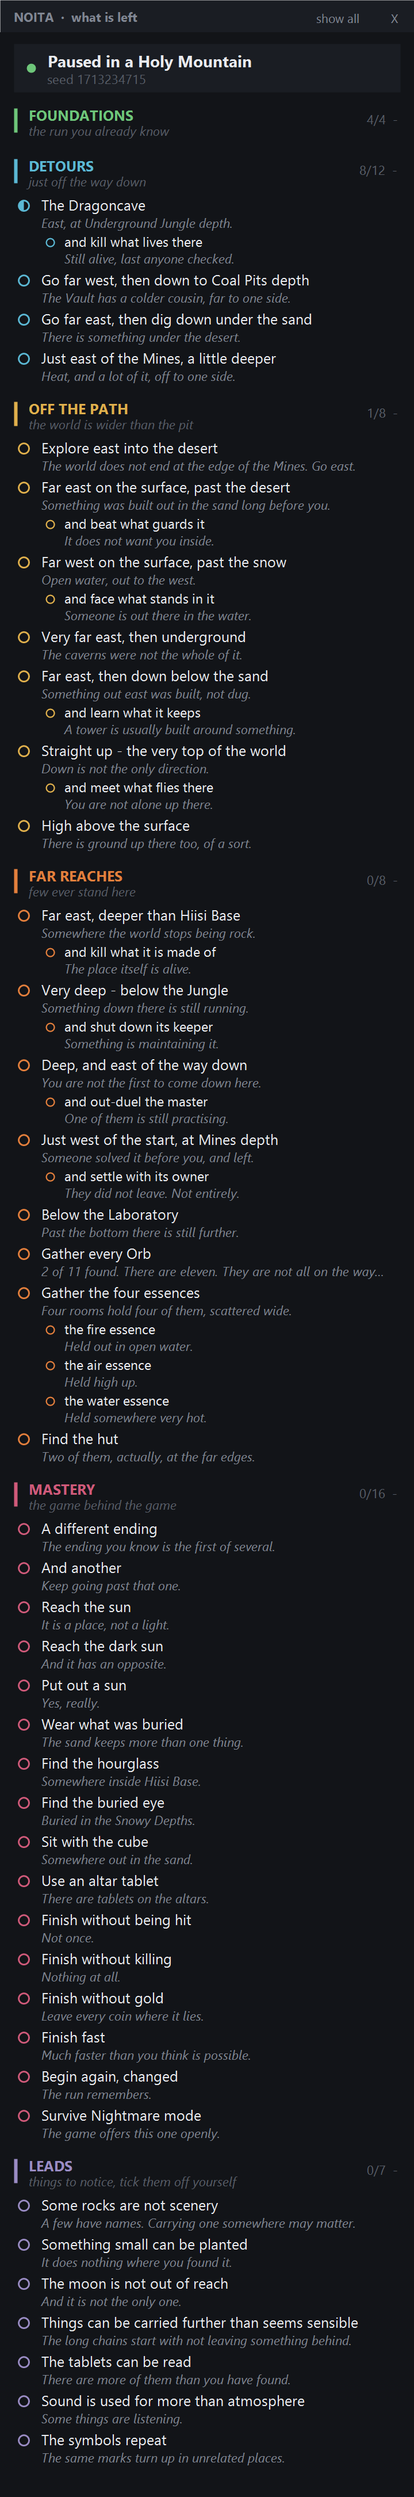
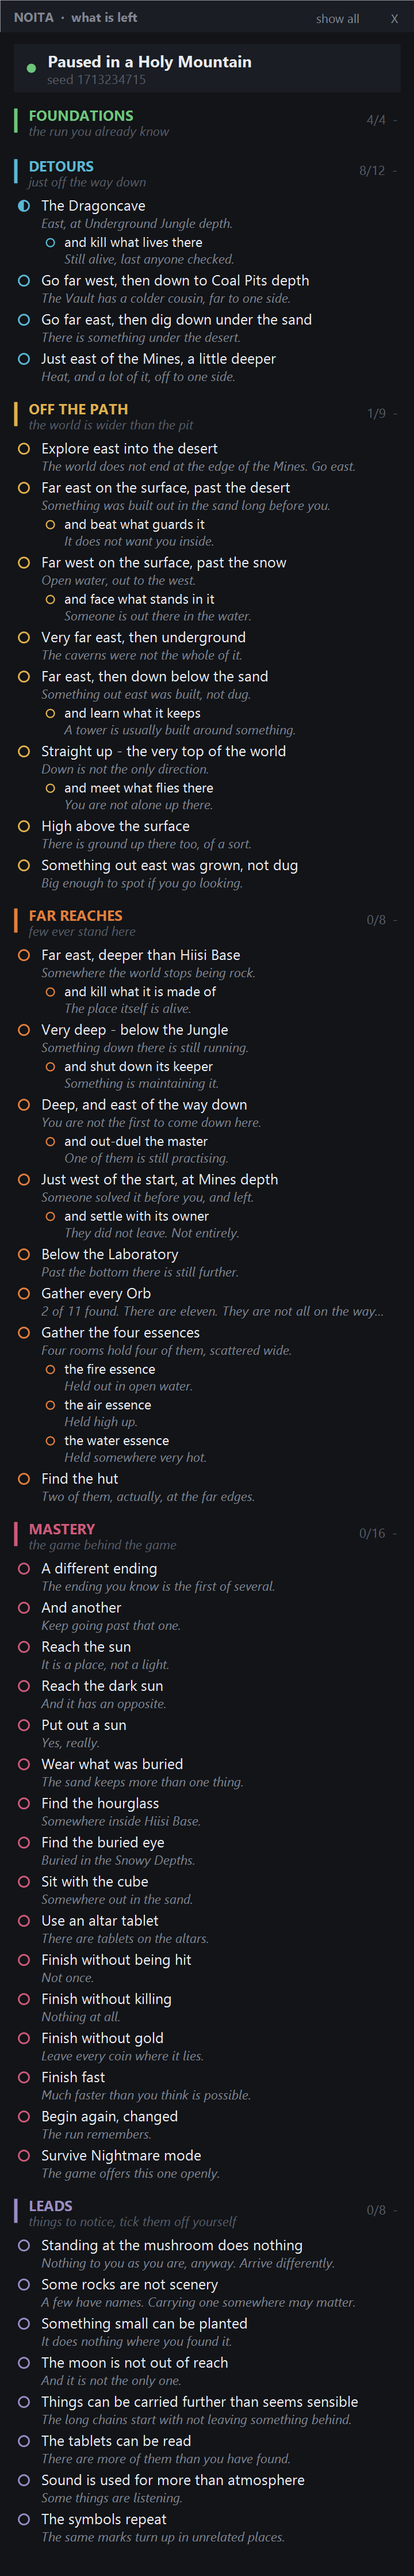
Add the stone mushroom
It is the funroom biome, one cell at chunk (11,6), world x 5632-6144,
y 3072-3584. Far east, at Snowy Depths depth.

Visiting it is detectable, so it is a normal place goal. Triggering it is
not: funroom_check.lua writes no flag at all. It fires only when the player
is inside radius 24 while carrying a particular state, then converts hidden
materials across the whole world. So the trigger is a manual lead.

diff --git a/src/Model.cs b/src/Model.cs
@@ -238,6 +238,7 @@ namespace NoitaOverlay {
       { "sandcave",     "the Sandcave" },           { "lavalake",     "the Lava Lake" },
       { "lava",         "the lava" },               { "gold",         "a vein of gold" },
       { "essenceroom",  "an Essence chamber" },     { "watercave",    "a water cave" },
+      { "funroom",      "the stone mushroom" },
       { "ghost_secret", "a hidden chamber" },       { "mestari_secret", "a hidden chamber" },
       { "solid_wall_hidden_cavern", "a hidden cavern" },
     };
@@ -309,6 +310,8 @@ namespace NoitaOverlay {
         .With(new Deed("and meet what flies there", "You are not alone up there.", "miniboss_sky")),
       new Goal(3, "t3_clouds",  "The Cloudscape",      "There is ground up there too, of a sort.",                   Source.Place, "clouds")
         .Veiled("High above the surface").At("High above the surface."),
+      new Goal(3, "t3_mushroom","The stone mushroom",  "Big enough to spot if you go looking.",                      Source.Place, "funroom")
+        .Veiled("Something out east was grown, not dug").At("Far east, at Snowy Depths depth."),
 
       // ---- 4. Far Reaches -------------------------------------------------
       new Goal(4, "t4_meat",   "The Meat Realm",  "Somewhere the world stops being rock.",  Source.Place, "meat")
@@ -354,6 +357,8 @@ namespace NoitaOverlay {
       // ---- 6. Leads -------------------------------------------------------
       // The game records none of these, so there is nothing to detect. They are
       // pointers at chains that start small and go a long way. Tick them yourself.
+      new Goal(6, "l_mushroom","Standing at the mushroom does nothing",
+        "Nothing to you as you are, anyway. Arrive differently.",       Source.Manual, "l_mushroom"),
       new Goal(6, "l_stones",  "Some rocks are not scenery",
         "A few have names. Carrying one somewhere may matter.",         Source.Manual, "l_stones"),
       new Goal(6, "l_seed",    "Something small can be planted",
